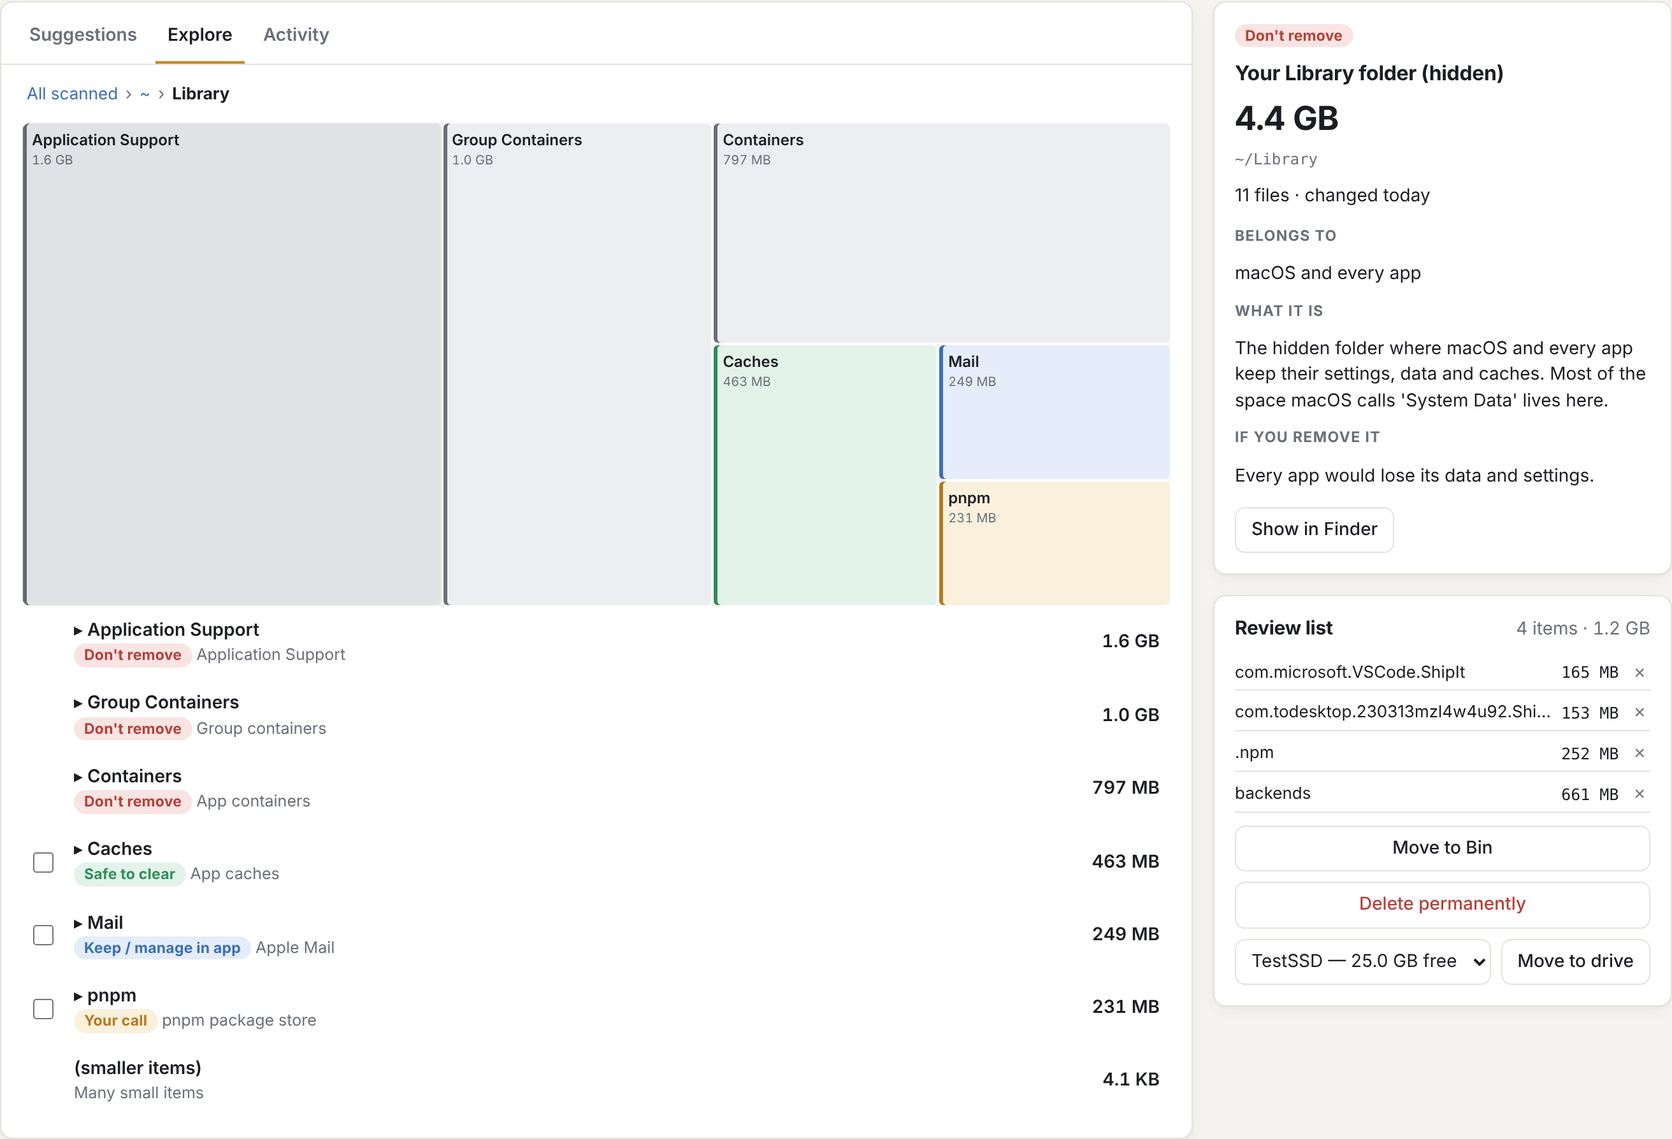
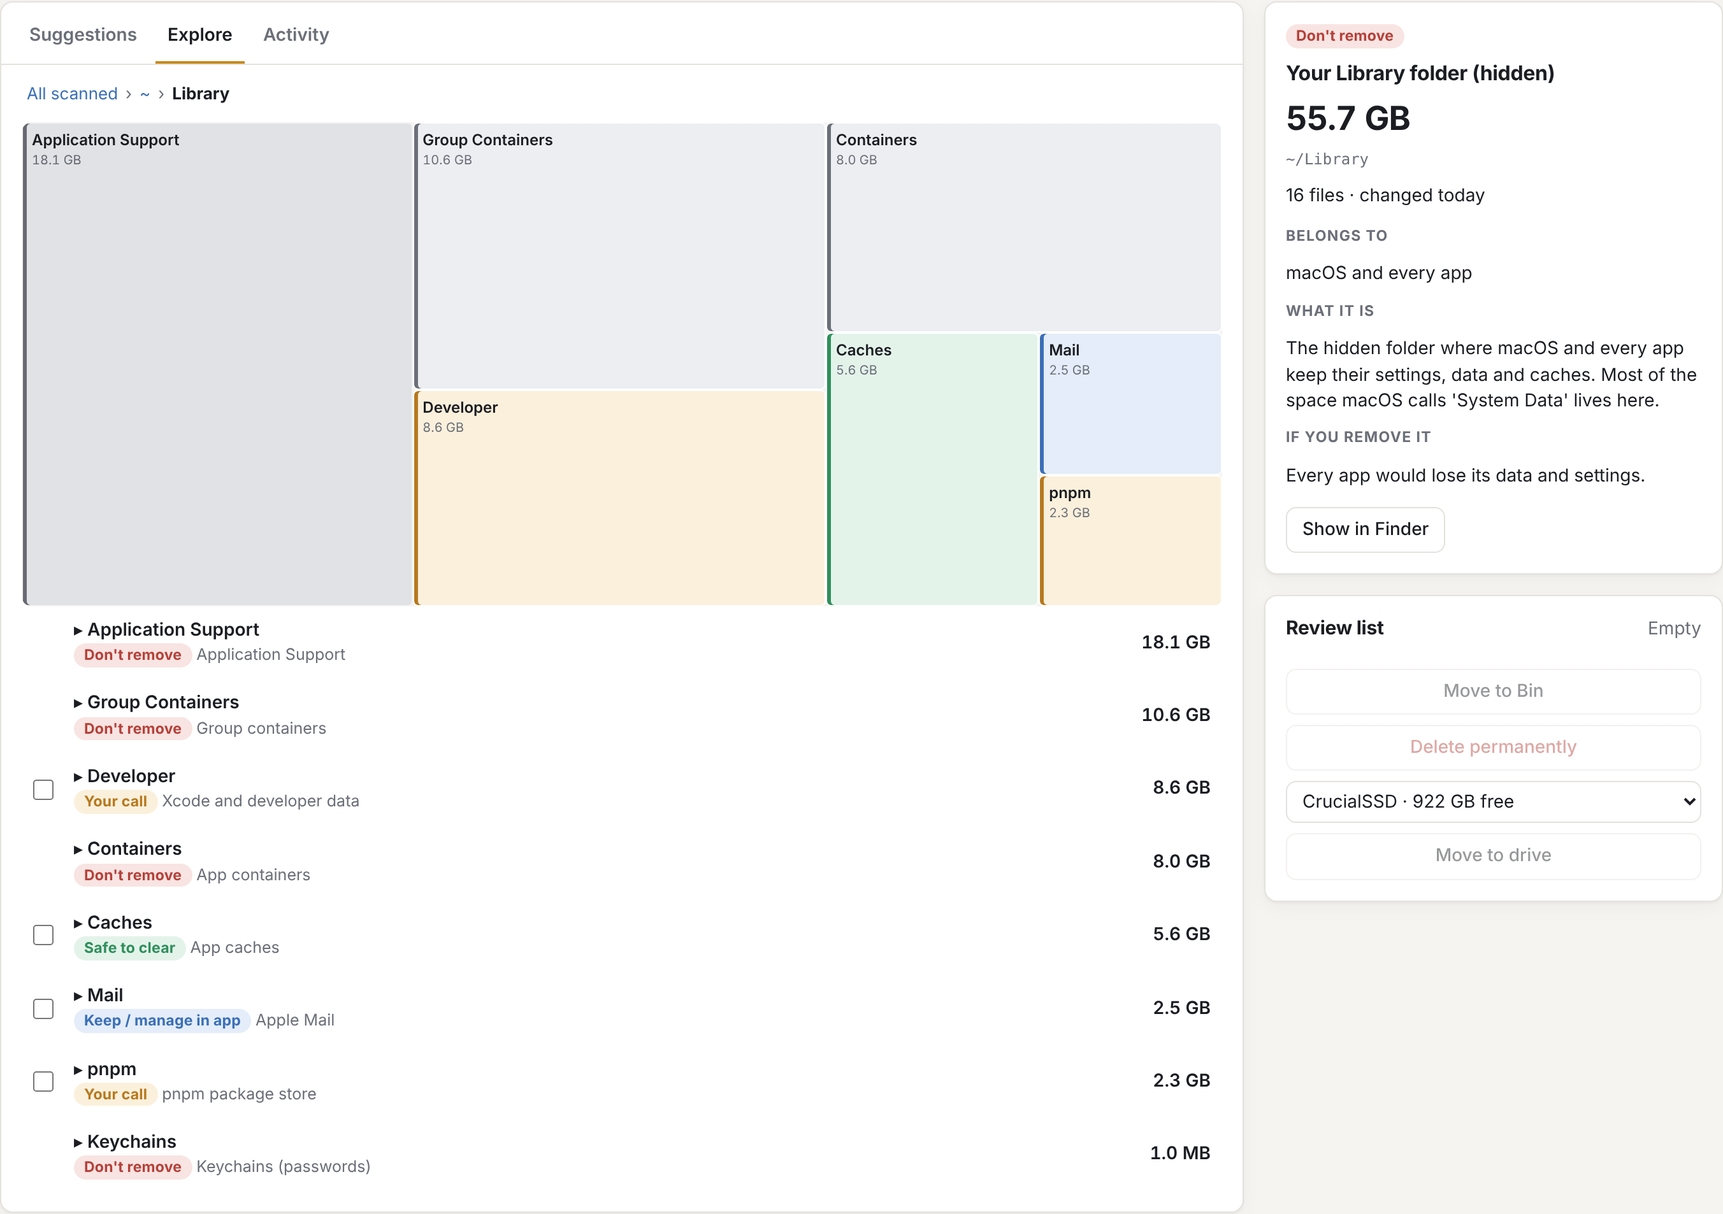
README with screenshots, direct download, install guide

diff --git a/spelunk/web/style.css b/spelunk/web/style.css
@@ -207,7 +207,7 @@ main { padding: 20px 24px 40px; max-width: 1400px; margin: 0 auto; }
 .queue-list li span:first-child { overflow: hidden; text-overflow: ellipsis; white-space: nowrap; }
 .queue-list .x { appearance: none; border: 0; background: none; color: var(--muted); cursor: pointer; font-size: 15px; padding: 0 4px; }
 .queue-actions { display: grid; gap: 8px; }
-.move-row { display: grid; grid-template-columns: minmax(0, 1fr) auto; gap: 8px; }
+.move-row { display: grid; grid-template-columns: minmax(0, 1fr); gap: 8px; }
 select { font: inherit; padding: 6px 8px; border-radius: 8px; border: 1px solid var(--line); background: var(--panel); color: var(--ink); min-width: 0; }
 
 /* ------------------------------------------------------------ dialog */

diff --git a/spelunk/web/app.js b/spelunk/web/app.js
@@ -422,7 +422,7 @@ async function loadExternals() {
   state.externals = volumes.filter((v) => v.writable && !v.is_disk_image);
   const sel = $("driveSelect");
   sel.replaceChildren(...(state.externals.length
-    ? state.externals.map((v) => h("option", { value: v.path, text: `${v.name} — ${human(v.free)} free${v.filesystem ? " · " + v.filesystem : ""}` }))
+    ? state.externals.map((v) => h("option", { value: v.path, title: v.filesystem || "", text: `${v.name} · ${human(v.free)} free` }))
     : [h("option", { value: "", text: "No external drive connected" })]));
   renderQueue();
 }

diff --git a/tests/test_server.py b/tests/test_server.py
@@ -108,3 +108,16 @@ def test_generic_cache_children_are_suggested(tmp_path):
     assert recs[f"{home}/Library/Caches/Google"] == "caches-browsers"
     assert recs[f"{home}/proj/node_modules"] == "node-modules"
     assert f"{home}/Library/Caches" not in recs
+
+
+def test_big_files_in_personal_folders_are_suggested(tmp_path):
+    from tests.conftest import write
+    from spelunk.scanner import Scanner
+    home = str(tmp_path / "h")
+    write(f"{home}/Movies/talk.mov", 2_000_000)
+    write(f"{home}/Desktop/Lectures/week1.m4v", 2_000_000)
+    app = App(roots=[home], home=home, min_node_bytes=100_000)
+    app.tree = Scanner(min_node_bytes=100_000).scan([home])
+    recs = {r["path"]: r["info"]["id"] for r in app.recommendations(min_bytes=1_000_000)}
+    assert recs[f"{home}/Movies/talk.mov"] in ("user-files", "videos")
+    assert recs[f"{home}/Desktop/Lectures/week1.m4v"] == "videos"

diff --git a/spelunk/server.py b/spelunk/server.py
@@ -130,7 +130,9 @@ class App:
             inherited = bool(info.get("inherited"))
             if not inherited:
                 tip = info.get("safety") == "keep" and info.get("action") in ("app", "command")
-                if rid not in SPLIT_RULES and (actionable or tip):
+                # Container rules are split into their children, but a single
+                # big file (e.g. a video directly in ~/Movies) is its own item.
+                if (rid not in SPLIT_RULES or not n.is_dir) and (actionable or tip):
                     return [item(n, info, tip, actionable)]
                 return [x for c in (n.children or ()) for x in visit(c)]
             # Inside a folder explained by an ancestor rule: prefer anything

diff --git a/spelunk/__init__.py b/spelunk/__init__.py
@@ -1,3 +1,3 @@
 """Spelunk: see everything that fills your Mac's disk, and decide what goes."""
 
-__version__ = "0.1.0"
+__version__ = "0.1.1"

diff --git a/README.md b/README.md
@@ -1,83 +1,165 @@
-# Spelunk
+<p align="center">
+  <img src="packaging/icon.png" width="120" alt="Spelunk app icon">
+</p>
 
-**See everything that fills your Mac's disk — including the hidden "System Data" — and decide, item by item, what to delete or move to an external drive.**
+<h1 align="center">Spelunk — a free MacBook storage cleaner</h1>
 
-![Spelunk dashboard](docs/screenshot.png)
+<p align="center">
+  <b>See what's really filling your Mac — including the hidden "System Data" — and decide, item by item, what to delete or move to an external drive.</b>
+</p>
 
-macOS hides most of what fills a disk. A 256 GB MacBook can report 80 GB of "System Data" with no breakdown and no safe way to clean it: app caches, Docker disks, WhatsApp media, update snapshots, Homebrew, editor caches, Python environments. Finder won't show it, the Storage screen won't explain it, and deleting the wrong folder in `~/Library` breaks apps.
+<p align="center">
+  <a href="https://github.com/mazzyy/spelunk/releases/latest/download/Spelunk-macOS-arm64.dmg"><b>⬇&nbsp;&nbsp;Download Spelunk for Mac</b></a>
+  &nbsp;·&nbsp; Apple silicon · macOS 12+ · free &amp; open source
+  <br><br>
+  <a href="https://github.com/mazzyy/spelunk/releases/latest"><img alt="Latest release" src="https://img.shields.io/github/v/release/mazzyy/spelunk?label=release"></a>
+  <a href="https://github.com/mazzyy/spelunk/actions/workflows/ci.yml"><img alt="Tests" src="https://github.com/mazzyy/spelunk/actions/workflows/ci.yml/badge.svg"></a>
+  <img alt="macOS" src="https://img.shields.io/badge/macOS-12%2B-black?logo=apple">
+  <a href="LICENSE"><img alt="MIT license" src="https://img.shields.io/badge/license-MIT-blue"></a>
+</p>
 
-Spelunk scans your disk, explains every big item in plain language, tells you whether it's safe to remove, and lets **you** decide. Nothing is deleted or moved without your confirmation.
+<picture>
+  <source media="(prefers-color-scheme: dark)" srcset="docs/dark.png">
+  <img src="docs/screenshot.png" alt="Spelunk shows the disk broken down into macOS, your home folder, apps, Homebrew, hidden space and free space, with a list of the biggest items that are safe to clear">
+</picture>
 
-## What it does
+---
 
-- **Shows the whole disk.** Your home folder, apps, `/Library`, Homebrew, system temp and swap, plus macOS volumes (System, Preboot, Recovery, VM) and local snapshots. Whatever it can't read is shown as "hidden" with the reason, not silently left out.
-- **Explains what things are.** A knowledge base of 100+ macOS locations: what it is, which app owns it, what happens if you remove it, and the better way to shrink it (e.g. `docker system prune -a` or WhatsApp › Settings › Storage).
-- **Rates safety.** `Safe to clear` (rebuilds itself), `Your call` (depends on you), `Keep / manage in app`, `Never touch` (blocked).
-- **Keeps you in the loop.** Add items to a review list, see exactly what will happen, then confirm.
-- **Moves files safely to an external drive.** Copies, verifies every file with SHA-256, writes a manifest, and only then removes the original. Any failure leaves the original untouched.
-- **Logs everything** to `~/.spelunk/actions.jsonl`.
-- **Stays local.** No network, no telemetry, no account. The dashboard only listens on `127.0.0.1` with a random per-launch token.
+## Why is my Mac storage full?
 
-## Download
+On a 256 GB MacBook it's common for **"System Data" to grow to 50–100 GB** with no explanation. macOS's Storage settings won't tell you what's inside, Finder hides it, and deleting the wrong folder in `~/Library` breaks apps.
 
-1. Download **`Spelunk-<version>-arm64.dmg`** from the [latest release](https://github.com/mazzyy/spelunk/releases/latest).
-2. Open the DMG and drag **Spelunk** into **Applications**.
-3. Open Spelunk. The first scan starts right away.
+It's usually a mix of things like these:
 
-**First launch:** until releases are notarized by Apple, macOS blocks apps from unknown developers. Open **System Settings › Privacy & Security**, scroll down to *"Spelunk was blocked…"*, click **Open Anyway** and confirm. You only do this once. (Terminal alternative: `xattr -dr com.apple.quarantine /Applications/Spelunk.app`)
+| What | Typical size | What Spelunk tells you |
+|---|---|---|
+| Docker's virtual disk | 5–60 GB | Your call — prune it with `docker system prune -a` |
+| WhatsApp / Messages photos and videos | 2–30 GB | Keep — clean it inside the app (it shows you where) |
+| Xcode build files, simulators, device support | 5–50 GB | Build files are safe to clear; simulators are your call |
+| Leftover app-update downloads (VS Code, Cursor, Slack…) | 1–5 GB | Safe to clear |
+| npm / pnpm / pip / uv / Homebrew caches | 2–20 GB | Safe to clear, or the right cleanup command |
+| `node_modules` and Python virtual environments in old projects | 1–10 GB | Your call — they reinstall in one command |
+| AI models (Ollama, LM Studio, Hugging Face) | 5–100 GB | Your call — or move them to an external drive |
+| A downloaded macOS update that was never installed | 5–20 GB | Install or cancel the update to free it |
+| Old videos and screen recordings | anything | Move them to your external SSD |
 
-The app is built for Apple silicon Macs (M1 and later). On an Intel Mac, run it from source (below).
+Spelunk finds these, explains each one in plain language, rates how safe it is to remove, and **only acts when you confirm**.
 
-## Run from source
+## Features
 
-Requires macOS and Python 3.9+ (the `python3` that comes with Xcode Command Line Tools is fine). No dependencies.
+### Suggestions: the biggest things you can decide on
+Grouped into **Safe to clear**, **Your call** and **Manage inside the app**. Every item says what it is, which app it belongs to, what happens if you remove it, and the better way to shrink it, with a copy button for commands such as `docker system prune -a`. *(Screenshot above.)*
+
+### Explore: a map of any folder
+Click through your disk as a treemap. Colours show what's safe (green), your call (amber), app data to keep (blue) and folders you shouldn't remove (grey).
+
+![Explore view: a treemap of ~/Library showing Application Support, Group Containers, Developer, Containers, Caches, Mail and pnpm with their sizes and safety labels](docs/explore.png)
+
+### Review, then confirm
+Nothing happens until you add items to the **review list** and confirm a plan that shows every item, its size and what will happen. Choose **Move to Bin** (recoverable), **Delete permanently**, or **Move to drive**.
+
+![Confirmation dialog for moving four videos and an installer (7.4 GB) to an external drive, with the safety note and a checkbox to confirm](docs/review.png)
+
+### Move files to your external SSD, safely
+Files are copied, **checked byte-for-byte (SHA-256)**, and only then removed from your Mac. A `manifest.jsonl` on the drive records where everything came from. If anything fails, the original stays where it was.
+
+### Sees what other tools can't
+It shows macOS's own volumes (System, Preboot, Recovery, swap), local snapshots such as an update waiting to install, and how much space it still can't read and why. If macOS is hiding protected folders, Spelunk tells you how to allow Full Disk Access with one button.
+
+![Notice asking to allow Full Disk Access with an "Open Full Disk Access settings" button](docs/full-disk-access.png)
+
+Light and dark mode follow your Mac's setting.
+
+---
+
+## Install the app
+
+1. **[Download Spelunk for Mac](https://github.com/mazzyy/spelunk/releases/latest/download/Spelunk-macOS-arm64.dmg)** (or pick a version from [Releases](https://github.com/mazzyy/spelunk/releases)).
+2. Open the downloaded `Spelunk-macOS-arm64.dmg` and drag **Spelunk** onto the **Applications** folder.
+3. Open **Spelunk** from Applications or Launchpad.
+4. **The first time only**, macOS may say Spelunk "can't be opened" because it isn't from the App Store or an identified developer yet:
+   - Open **System Settings › Privacy & Security**.
+   - Scroll down to *"Spelunk was blocked to protect your Mac"* and click **Open Anyway**, then confirm.
+   - *(Terminal alternative: `xattr -dr com.apple.quarantine /Applications/Spelunk.app`)*
+5. To let Spelunk see protected folders (Mail, Messages, parts of Library), click **Open Full Disk Access settings** in the app, click **+**, choose **Spelunk**, switch it on, then quit and reopen Spelunk.
+
+The downloadable app is for **Apple silicon Macs (M1 and newer)**. On an Intel Mac, [install from source](#install-from-source) or [build the app yourself](#build-the-app-yourself).
+
+**Uninstall:** drag Spelunk from Applications to the Bin and delete the `~/.spelunk` folder (the action log).
+
+---
+
+## Install from source
+
+Use this if you're on an Intel Mac, want the latest code, or want to contribute.
+
+**1. Open Terminal**: press <kbd>⌘</kbd> <kbd>Space</kbd>, type *Terminal*, press <kbd>Return</kbd>.
+
+**2. Make sure you have Python 3 and git.** Check with:
+
+```bash
+python3 --version
+git --version
+```
+
+If either is missing, install Apple's free Command Line Tools (a few minutes, about 1 GB):
+
+```bash
+xcode-select --install
+```
+
+**3. Download Spelunk**
 
 ```bash
 git clone https://github.com/mazzyy/spelunk.git
 cd spelunk
+```
+
+No git? Click **Code › Download ZIP** on this page, unzip it, then `cd ~/Downloads/spelunk-main`.
+
+**4. Run it**
+
+```bash
 python3 -m spelunk
 ```
 
-Your browser opens the dashboard and the first scan starts. A full scan of a typical developer Mac takes about a minute.
+Your browser opens the dashboard and the first scan starts (about a minute on a typical developer Mac). Spelunk has **no dependencies**, so nothing else needs installing.
 
-Prefer the terminal?
+Want it in its own window instead of a browser tab?
 
 ```bash
-python3 -m spelunk scan            # report of the largest items with explanations
-python3 -m spelunk scan ~ --top 50 # only your home folder
+python3 -m venv .venv
+source .venv/bin/activate
+pip install pywebview==6.1
+python -m spelunk app
+```
+
+**5. Allow Full Disk Access (optional, recommended).** In System Settings › Privacy & Security › Full Disk Access, add the app you run Spelunk from (Terminal, iTerm, VS Code…), restart it and run Spelunk again.
+
+**Update:** `git pull` inside the `spelunk` folder. **Uninstall:** delete the folder and `~/.spelunk`.
+
+### Terminal commands
+
+```bash
+python3 -m spelunk                 # dashboard in your browser (default)
+python3 -m spelunk app             # dashboard in its own window (needs pywebview)
+python3 -m spelunk scan            # text report of the largest items, with explanations
+python3 -m spelunk scan ~ --top 50 # only your home folder, top 50
 python3 -m spelunk explain ~/Library/Caches/com.microsoft.VSCode.ShipIt
 ```
 
-### See more: grant Full Disk Access
-
-macOS blocks apps from reading Mail, Messages, Safari data, parts of `~/Library` and more. Spelunk detects this and shows an **Open Full Disk Access settings** button.
-
-- **Using the app:** click **+**, choose **Spelunk** in Applications, switch it on, then quit and reopen Spelunk.
-- **Running from source:** add the app you run it from (Terminal, iTerm, VS Code…) and restart it.
-
-Spelunk still works without it; those folders are shown as "no access" and counted under *Hidden*.
+---
 
 ## Build the app yourself
 
-On a Mac:
+On a Mac (Apple silicon builds an Apple silicon app; Intel builds an Intel app):
 
 ```bash
 packaging/build_app.sh
 open dist/Spelunk.app
 ```
 
-This creates `dist/Spelunk.app` and a drag-to-install `dist/Spelunk-<version>-<arch>.dmg`. The build uses PyInstaller and pywebview (installed into a throwaway `.build-venv`); Spelunk itself still has no dependencies. Build on an Intel Mac to get an Intel app.
-
-## Releasing (maintainers)
-
-Pushing a version tag builds the DMG on GitHub's Mac runners and attaches it to a GitHub Release:
-
-```bash
-git tag v0.1.0
-git push origin v0.1.0
-```
-
-To remove the "blocked app" step for users, add an Apple Developer ID certificate and notarization credentials as repository secrets; the workflow signs and notarizes automatically when they're present. See the comments at the top of `.github/workflows/release.yml`.
+This creates `dist/Spelunk.app` and a drag-to-install `dist/Spelunk-macOS-<arch>.dmg`. The build installs PyInstaller and pywebview into a throwaway `.build-venv`; Spelunk itself stays dependency-free.
 
 ## How safety works
 
@@ -85,26 +167,65 @@ To remove the "blocked app" step for users, add an Apple Developer ID certificat
 |---|---|
 | Nothing happens without a plan you've seen | Every action shows the exact items, sizes and warnings first. |
 | Plans are single-use and expire after 10 minutes | A stale plan can't be replayed. |
-| `Never touch` items and system folders are blocked in code | Keychains, `/System`, your home's top-level folders, `~/.ssh` and more are refused even if a rule file is edited badly. |
-| `Your call` / `Keep` items need an extra confirmation | You tick "I've reviewed these items". |
-| Moves are copy → verify → delete | SHA-256 for every file. A manifest (`Spelunk Archive/manifest.jsonl`) on the drive records where everything came from. |
-| Move to Bin is the default | You can still restore from the Bin. Space is freed when you empty it. |
-| Symbolic links | Recreated on drives that support them; on exFAT they're listed in the manifest with their target. |
+| "Don't remove" items and system folders are blocked in code | Keychains, `/System`, your home's top-level folders, `~/.ssh` and more are refused, even if a rule file is edited badly. |
+| "Your call" / "Keep" items need an extra confirmation | You tick "I've reviewed these items". |
+| Moves are copy → verify → delete | SHA-256 for every file, plus a manifest on the drive. |
+| Move to Bin is the default | You can restore from the Bin. Space is freed when you empty it. |
+| Everything is logged | `~/.spelunk/actions.jsonl` and the **Activity** tab. |
+
+## Privacy
+
+Spelunk runs entirely on your Mac. No account, no telemetry, no uploads, no network calls. The dashboard is served only on `127.0.0.1` with a random token for each launch, so other websites and apps can't talk to it.
+
+## FAQ
+
+**Does Spelunk delete anything automatically?**
+No. It only suggests. You choose items, review the plan and confirm.
+
+**Why does it want Full Disk Access?**
+macOS hides Mail, Messages, Safari and parts of `~/Library` from every app by default, and those are often where "System Data" lives. Without access Spelunk still works and shows that space as *hidden*.
+
+**What's the difference between Move to Bin and Delete permanently?**
+Bin is recoverable but only frees space after you empty the Bin. Delete frees space immediately and can't be undone.
+
+**Can I get files back after moving them to my SSD?**
+Yes. They're in `Spelunk Archive/` on the drive, in the same folder structure as on your Mac, and `manifest.jsonl` lists the original location of each item.
+
+**Is it safe to clear caches?**
+Items marked *Safe to clear* are rebuilt automatically by their app. Quit the app first. Spelunk never marks anything as safe if removing it could lose your data.
+
+**Intel Mac?**
+Install from source or build the app yourself on that Mac. Both work.
+
+---
+
+## Releasing (maintainers)
+
+Pushing a version tag builds the DMG on GitHub's Mac runners and attaches it to a GitHub Release as `Spelunk-macOS-arm64.dmg`, so the download link above always points to the newest version:
+
+```bash
+# bump __version__ in spelunk/__init__.py and pyproject.toml first
+git tag v0.1.1
+git push origin v0.1.1
+```
+
+To remove the "Open Anyway" step for users, add an Apple Developer ID certificate and notarization credentials as repository secrets; the workflow signs and notarizes automatically when they're present. See the comments at the top of `.github/workflows/release.yml`.
 
 ## Project layout
 
 ```
 spelunk/
   scanner.py        fast stdlib scanner (allocated size, hard links once, no symlink following)
-  system.py         APFS volumes, snapshots, external drives (diskutil / tmutil)
+  system.py         APFS volumes, snapshots, external drives, Full Disk Access check
   knowledge.py      path → explanation engine + hard deny list
   rules/macos.json  the knowledge base (add rules here!)
   actions.py        plan / execute: Bin, delete, verified move
-  server.py         local API (token + host check)
+  server.py         local API (token + host check) and suggestions
   desktop.py        app entry: native window (pywebview) or browser fallback
   web/              dashboard (vanilla JS, no build step)
 packaging/          Spelunk.app recipe: PyInstaller spec, icon, build_app.sh
 .github/workflows/  tests on every push; DMG release on every v* tag
+docs/               screenshots
 tests/              pytest suite (runs on macOS and Linux)
 ROADMAP.md          where this is going, in detail
 CLAUDE.md           rules for AI coding agents working on this repo
@@ -112,7 +233,7 @@ CLAUDE.md           rules for AI coding agents working on this repo
 
 ## Contributing
 
-The most valuable contribution is **knowledge**: a folder on your Mac that's big and confusing, what it is, and whether it's safe to remove. See [CONTRIBUTING.md](CONTRIBUTING.md). Bigger plans are in [ROADMAP.md](ROADMAP.md).
+The most valuable contribution is **knowledge**: a big, confusing folder on your Mac, what it is, and whether it's safe to remove. See [CONTRIBUTING.md](CONTRIBUTING.md). Bigger plans are in [ROADMAP.md](ROADMAP.md).
 
 ```bash
 python3 -m pip install pytest
@@ -121,4 +242,4 @@ python3 -m pytest
 
 ## License
 
-MIT — see [LICENSE](LICENSE).
+MIT — see [LICENSE](LICENSE). Made by [Abdul Musawar Soomro](https://musawar.tech).

diff --git a/ROADMAP.md b/ROADMAP.md
@@ -43,7 +43,7 @@ What works:
 - Review list → plan dialog → job with progress → results. Bin, permanent delete, verified move to external drive with manifest.
 - Action log, Activity tab, Show in Finder.
 - **Downloadable Mac app:** `Spelunk.app` (PyInstaller + pywebview native window) and a DMG, built by `packaging/build_app.sh` and by GitHub Actions on every `v*` tag (`.github/workflows/release.yml`). Optional Developer ID signing + notarization when secrets are set. Full Disk Access detection with an "Open settings" button.
-- 31 tests (scanner, rules, actions incl. failed-verification path, server security).
+- 32 tests (scanner, rules, actions incl. failed-verification path, server security).
 - Verified on a real MacBook home folder: 518k files scanned in 72 s (Python, read-only).
 
 Known limitations (each is addressed below):
